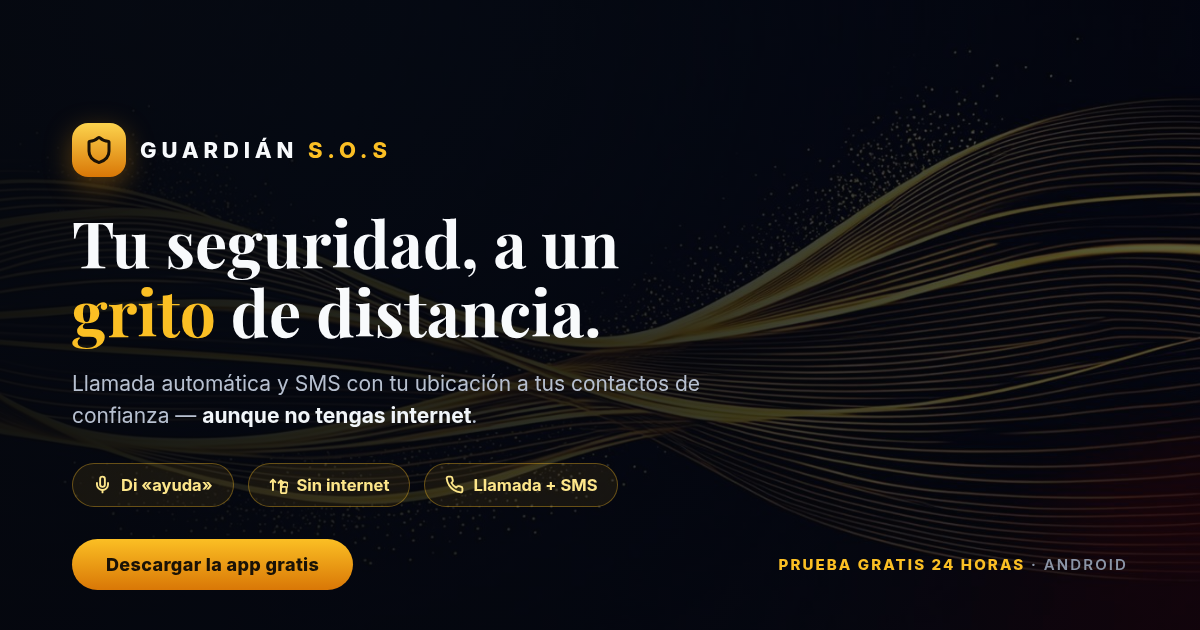
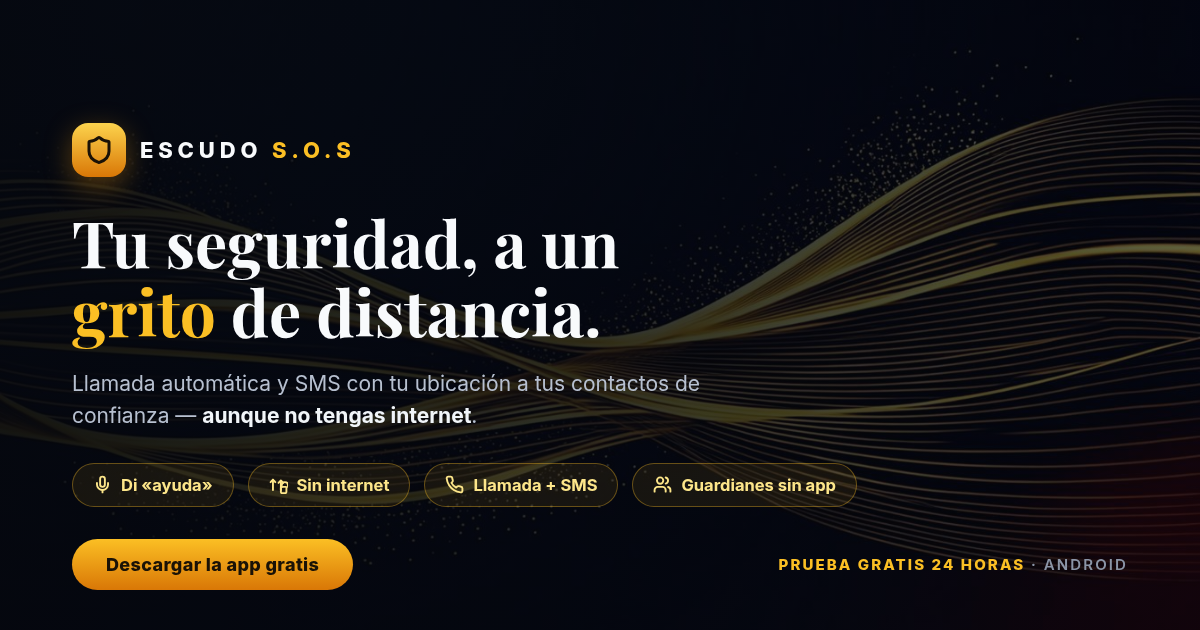
Add files via upload

Changed region(s): [[0.1233, 0.2111, 0.3392, 0.2714], [0.5242, 0.754, 0.7092, 0.7841]]

diff --git a/public/sw.js b/public/sw.js
@@ -1,10 +1,10 @@
-/* Guardian S.O.S — service worker mínimo y seguro.
+/* Escudo S.O.S — service worker mínimo y seguro.
  * Cachea la interfaz para abrir sin conexión (PWA instalable).
  * NUNCA cachea peticiones a ntfy.sh (alertas) ni POST.
- * v7.1: nombre de caché renovado para que las instalaciones PWA existentes
- * reciban la actualización de la app (licencias + consola del guardián).
+ * v7.6: caché renovada (marca Escudo S.O.S) para que las instalaciones
+ * PWA existentes reciban la landing actualizada.
  */
-const CACHE = "gsos-v71";
+const CACHE = "esos-v76";
 const SHELL = ["/", "/manifest.json", "/icon-192.png", "/icon-512.png", "/apple-touch-icon.png"];
 
 self.addEventListener("install", (e) => {
